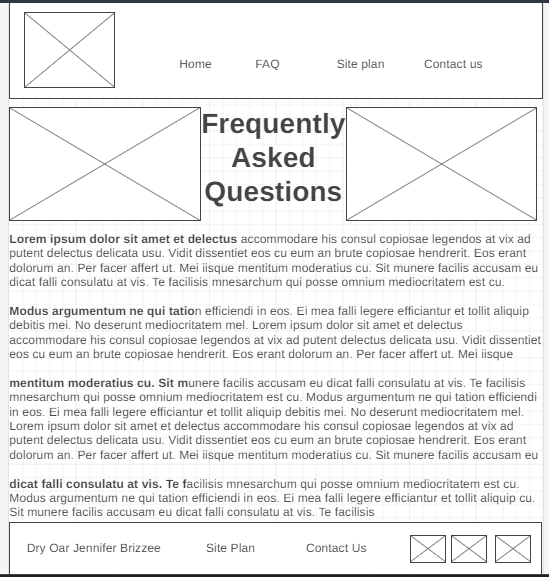
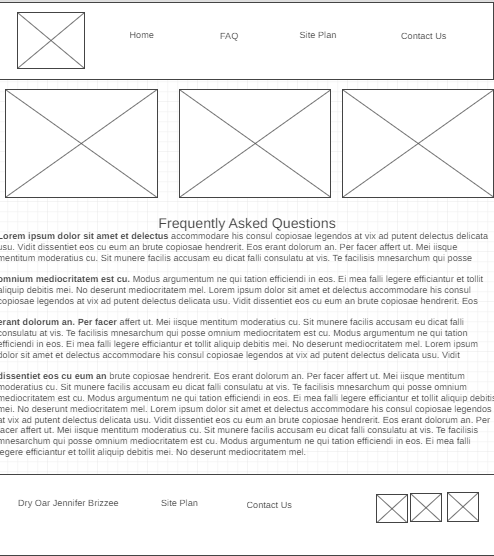
Added content to faq page

diff --git a/wwr/faqs.html b/wwr/faqs.html
@@ -1,0 +1,61 @@
+<!DOCTYPE html>
+<html lang="en">
+<head>
+    <meta charset="UTF-8">
+    <meta name="viewport" content="width=device-width, initial-scale=1.0">
+    <title>Whitewater Rafting FAQS</title>
+    <link rel="stylesheet" href="styles/styles.css">
+</head>
+<body>
+    <div id="content">
+        <header>
+            <a id="logo_link" href="index.html">
+                <img class="logo" src="images/logo.png" alt="Dry Oar Logo">
+            </a>
+            <nav>
+                <a href="index.html">Home</a>
+                <a href="faqs.html">FAQ</a>
+                <a href="site-plan-rafting.html">Site Plan</a>
+                <a href="contactus.html">Contact Us</a>
+            </nav>
+        </header>
+       <img class="rafting" src="images/rafting13_1024.jpg" alt="rafting image" width="500px" height="400px">
+       <img class="pretty" src="images/rafting58_600.jpg" alt="pretty river" width="500px" height="400px">
+       <img src="images/rafting21_600.png" alt="rafting" width="500px" height="400px">
+       <h1 class="faqs">Frequently Asked Questions</h1>
+       <p><b>This is a place to answer frequently asked client questions.</b>
+
+        <p><b>Is this a good trip for kids? What are the age ranges you allow?</b>
+        Absolutely this is a good trip for children of all ages. We have found however that children over the age of 8 seem to enjoy it more overall (And parents especially enjoy it more if their children are all over 8). A common concern we get from parents is that their children will be bored stuck on a boat for hours at a time. Surprisingly we deal with very few bored children of any age. The areas we are rafting through are some of the most beautiful in the world, and you never know what you might see around any corner. Not to mention the rapids which keep things very interesting. Each boat also comes equipped with a guide. It has been proven that river guides are unable to go for very long at all without telling stories...some of which are even true!</p>
+        <p><b>Is whitewater rafting safe? I don't even know how to swim! Can I still come?</b>
+        As with all adventure sports, there is an inherent and assumed element of risk. To help ensure your safety, our guides are all certified in Wilderness First aid and all start with at least 3 years of rafting experience. The most common injuries are sunburns and injuries that occur on land.
+        Everyone on commercial rafting trips wears coast guard approved life vest or personal flotation device (PFD). Many non swimmers go on rafting trips and have a great time. Your guide will give you an in depth and engaging safety talk before your trip begins explaining what you should prepare for and do in the event that you fall out of the raft.</p>
+        <p><b>What is included in the trip?</b>
+        We will provide all necessary camping equipment. This includes a sleeping bag, foam pad, waterproof duffle bag, small waterproof day bag, tent and a cot, eating utensils and camping chair.
+        We provided water and lemonade during the day. Coffee, tea and hot chocolate are provided during the morning and evening hours. You may bring beer, liquor and soft drinks (in reasonable amounts, 2 cans per day). You may purchase these items either the night before the trip, or on your way to the put-in. 3 meals per day, plus snacks.</p>
+        <p><b>What do I need to bring?</b>
+        The most effective way to plan for temperature and weather changes in the Canyon is to be prepared for both hot & dry and cold & wet Rain jacket and rain pants- do not bring ponchos Quick dry shirts and shorts long sleeve cotton shirt and pants- helps keep you cooler on hot days. Button down shirts provide more sun protection on the neck Light Weight Cotton Pant, Nylon Pant or Sarong the best thing for men to wear are swim trunks as shorts if you are cold natured, bring polypropylene long underwear top and bottom Women wear swim suits or quick dry underwear and sport bras as a base layer during the day. Over the base layer, wear a pair of quick dry shorts and the shirt of your choice (polypropylene if you are cold, cotton if you are hot). Two piece swim suits are convenient when changing or going to the bathroom. hat- large brim hat offers protection from the sun with a good quality strap. Sunglasses with strap socks- used for hiking and to protect your feet from the sun. sandals or water shoes- if not used to hiking in these, bring a pair of shoes you have hiked in before camper wear: Bring something comfortable to wear around camp. Cotton dresses, skirts and sarongs are all popular options. Sleep wear: You might choose to sleep in your camp wear. Otherwise, you might like to bring something comfortable to sleep in. water bottle small day pack for hikes moisturizing lotion headlamp or flashlight moleskin waterproof sunscreen and lip balm optional items: gloves fleece jacket towel bandana small pillow hygiene products: toothpaste, toothbrush, tissue, nail clippers, feminine hygiene products, extra eyeglasses or contacts, biodegradable soap and shampoo camera equipment book, watercolors, journal and pen.</p>
+        <p><b>What is so great about whitewater rafting anyway?</b>
+        Are you kidding me! What's not great about whitewater rafting!...Let's describe a common day on the river.
+        Arise in the soft light of the early morning after a night spent sleeping under a beautiful starry sky. Have a hearty warm breakfast of fresh blueberry pancakes or omelets to order, then pack your things and prepare for the day. The day is filled with some combination of swift water, rapids, calms, hikes, history, geology, stories, and more good food. We try to hit camp around 4 or 5, after setting up your cot you can relax with a good book or good company by the river, or explore around camp while your guides prepare your dinner...something perhaps like steak and potatoes, or grilled salmon...and dutch oven brownies...you won't forget the dutch oven brownies. After dinner it's more relaxing, and you might even be able to talk your guide into another story or two to send you off to bed under more stars than you thought were possible.</p>
+        <p><b>How far in advance should I book my trip?</b>
+        If you have specific dates you need, we recommend booking a year in advance. If you can be more flexible 6 months in advance is usually sufficient.</p>
+       <footer>
+            <p>Dry Oar &copy; 2024 - Jennifer Brizzee</p>
+            <p><a href="site-plan-rafting.html">Site Plan</a></p>
+            <p><a href="contactus.html">Contact Us</a></p>
+            <div class="social">
+                <a href="https://facebook.com" target="_blank">
+                    <img src="images/facebook.png" alt="fb icon">
+                </a>
+                <a href="https://twitter.com" target="_blank">
+                    <img src="images/twitter.png" alt="twitter icon">
+                </a>
+                <a href="https://instagram.com" target="_blank">
+                    <img src="images/instagram.png" alt="instagram icon">
+                </a>
+            </div>
+        </footer>
+    </div>
+</body>
+</html>

diff --git a/cityscape.html b/cityscape.html
@@ -1,0 +1,22 @@
+<!DOCTYPE html>
+<html lang="en">
+<head>
+    <meta charset="UTF-8">
+    <meta name="viewport" content="width=device-width, initial-scale=1.0">
+    <link rel="stylesheet" href="styles/cityscape.css">
+    <title>Document</title>
+</head>
+<body>
+    <img src="wwr/images/w09_ice_img.jpg" alt="city scape">
+<div>
+    <h6>3 weeks ago</h6>
+    <h1>Post Three</h1>
+    <p>This would be some text to go here and tell you about this awesome article that they should definitely read. This would be some text to go here and tell you about this awesome article that they should definitely read. This would be some text to go here.</p>
+</div>
+    <footer>
+       <p>5 <sup>m</sup> read</p> 
+        <p>2031 Views</p>
+       <p>15 Comments</p>
+    </footer>
+</body>
+</html>

diff --git a/ibelongbenefits/site-plan.html b/ibelongbenefits/site-plan.html
@@ -128,7 +128,7 @@
         This page will give a brief description of what my website is for and direct them to the two child sites. Students and employees of BYU-I along with prospective students will come to this site to learn more about the benefits of I-belong and how much they can gain from using I-belong as a student or employee. It will also direct them to the I-belong site and show them the locations where they can learn more. There will be a navigation header and footer which will be on each page.
       </p>
       <p>Images for the Home page</p>
-        <img src="images/i-belong-logo.png" alt="">ibelong">
+        <img src="images/i-belong-logo.png" alt="ibelong">
         <img src="images/byui.edu ibelong.png" alt=" byui ibelong">
 
       </ul>

diff --git a/wwr/index.html b/wwr/index.html
@@ -14,7 +14,7 @@
             </a>
             <nav>
                 <a href="index.html">Home</a>
-                <a href="#">FAQ</a>
+                <a href="faqs.html">FAQ</a>
                 <a href="site-plan-rafting.html">Site Plan</a>
                 <a href="contactus.html">Contact Us</a>
             </nav>

diff --git a/wwr/styles/styles.css b/wwr/styles/styles.css
@@ -195,6 +195,14 @@ nav {
     grid-column: 6/10;
     grid-row: 6/7;
 }
+FAQS Page
+.pretty {
+    display: inline;
+    float: right;
+}
+.faqs {
+    text-align: center;
+}
 @media screen and (max-width: 900px) {
     #hero, .home-grid {
         display: block;

diff --git a/styles/cityscape.css b/styles/cityscape.css
@@ -1,0 +1,5 @@
+img {
+    display: block;
+    margin-left: auto;
+    margin-right: auto;  
+}
